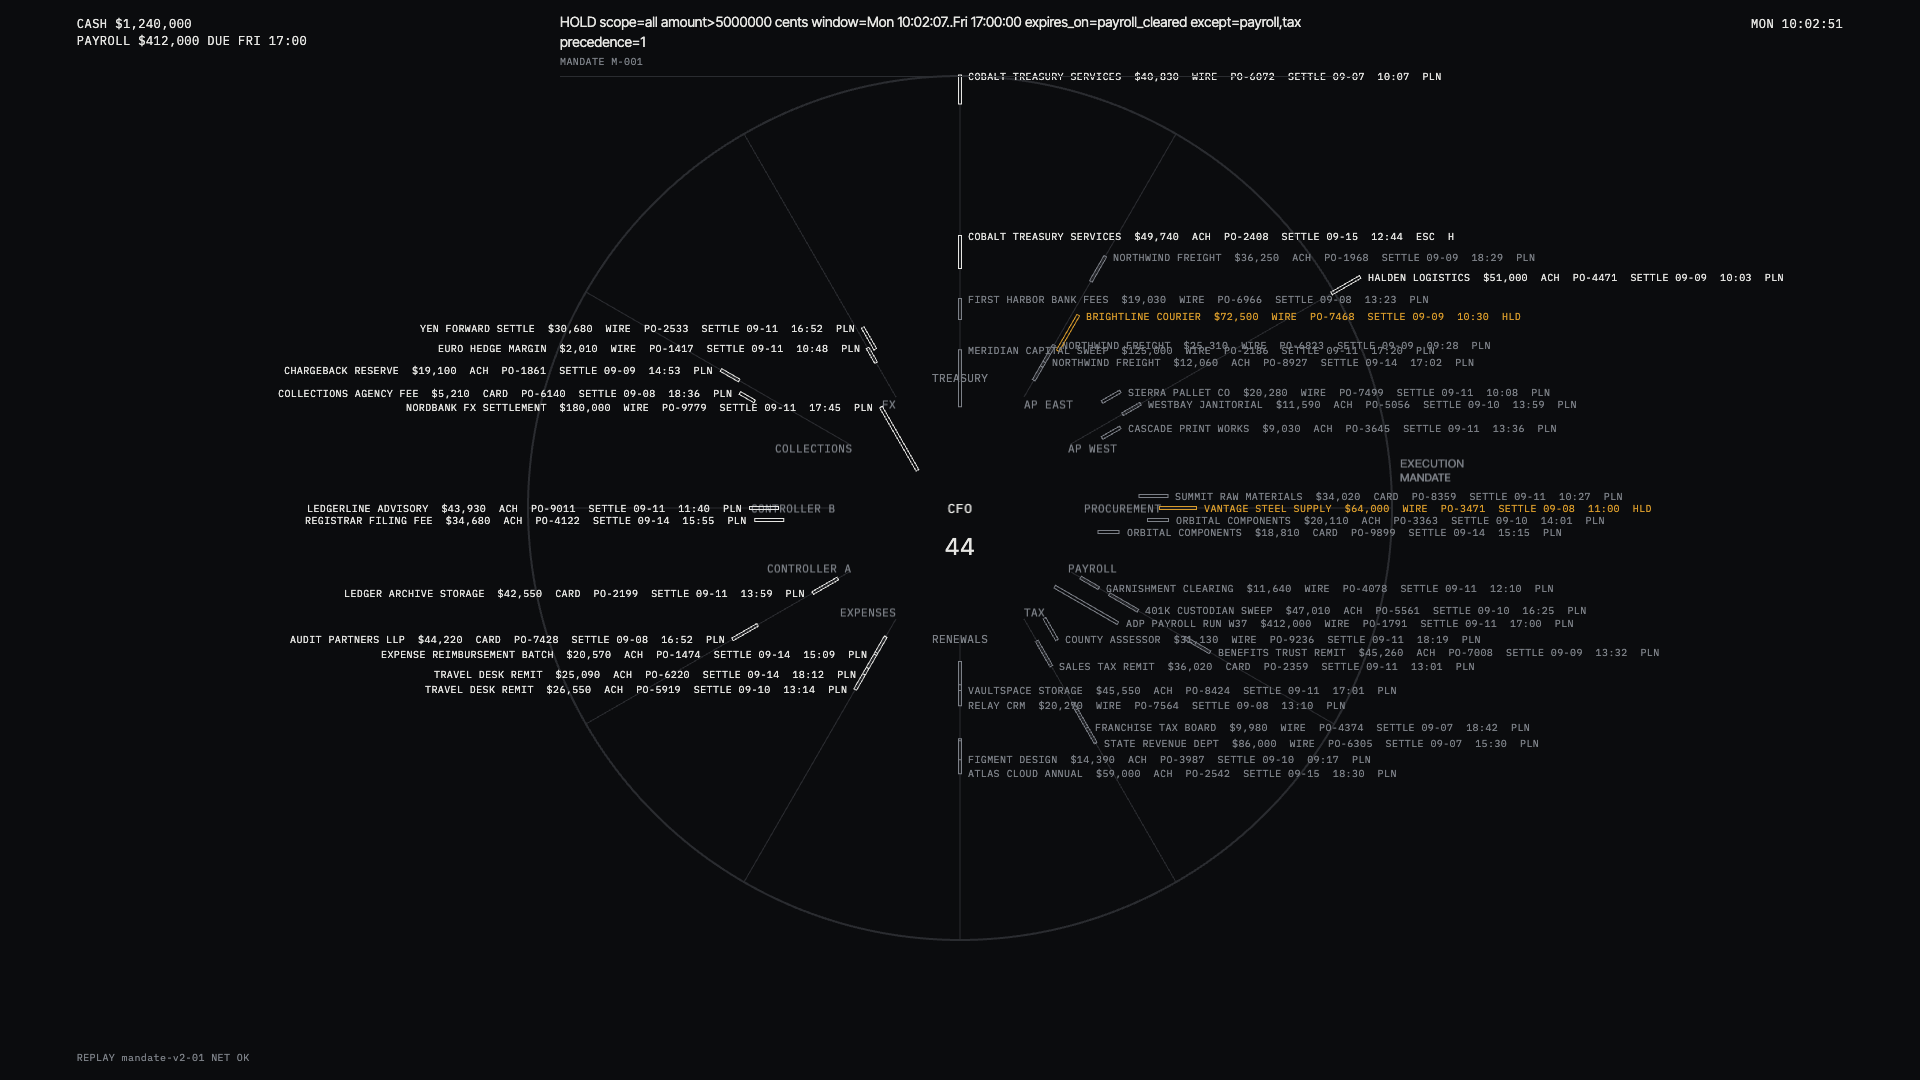
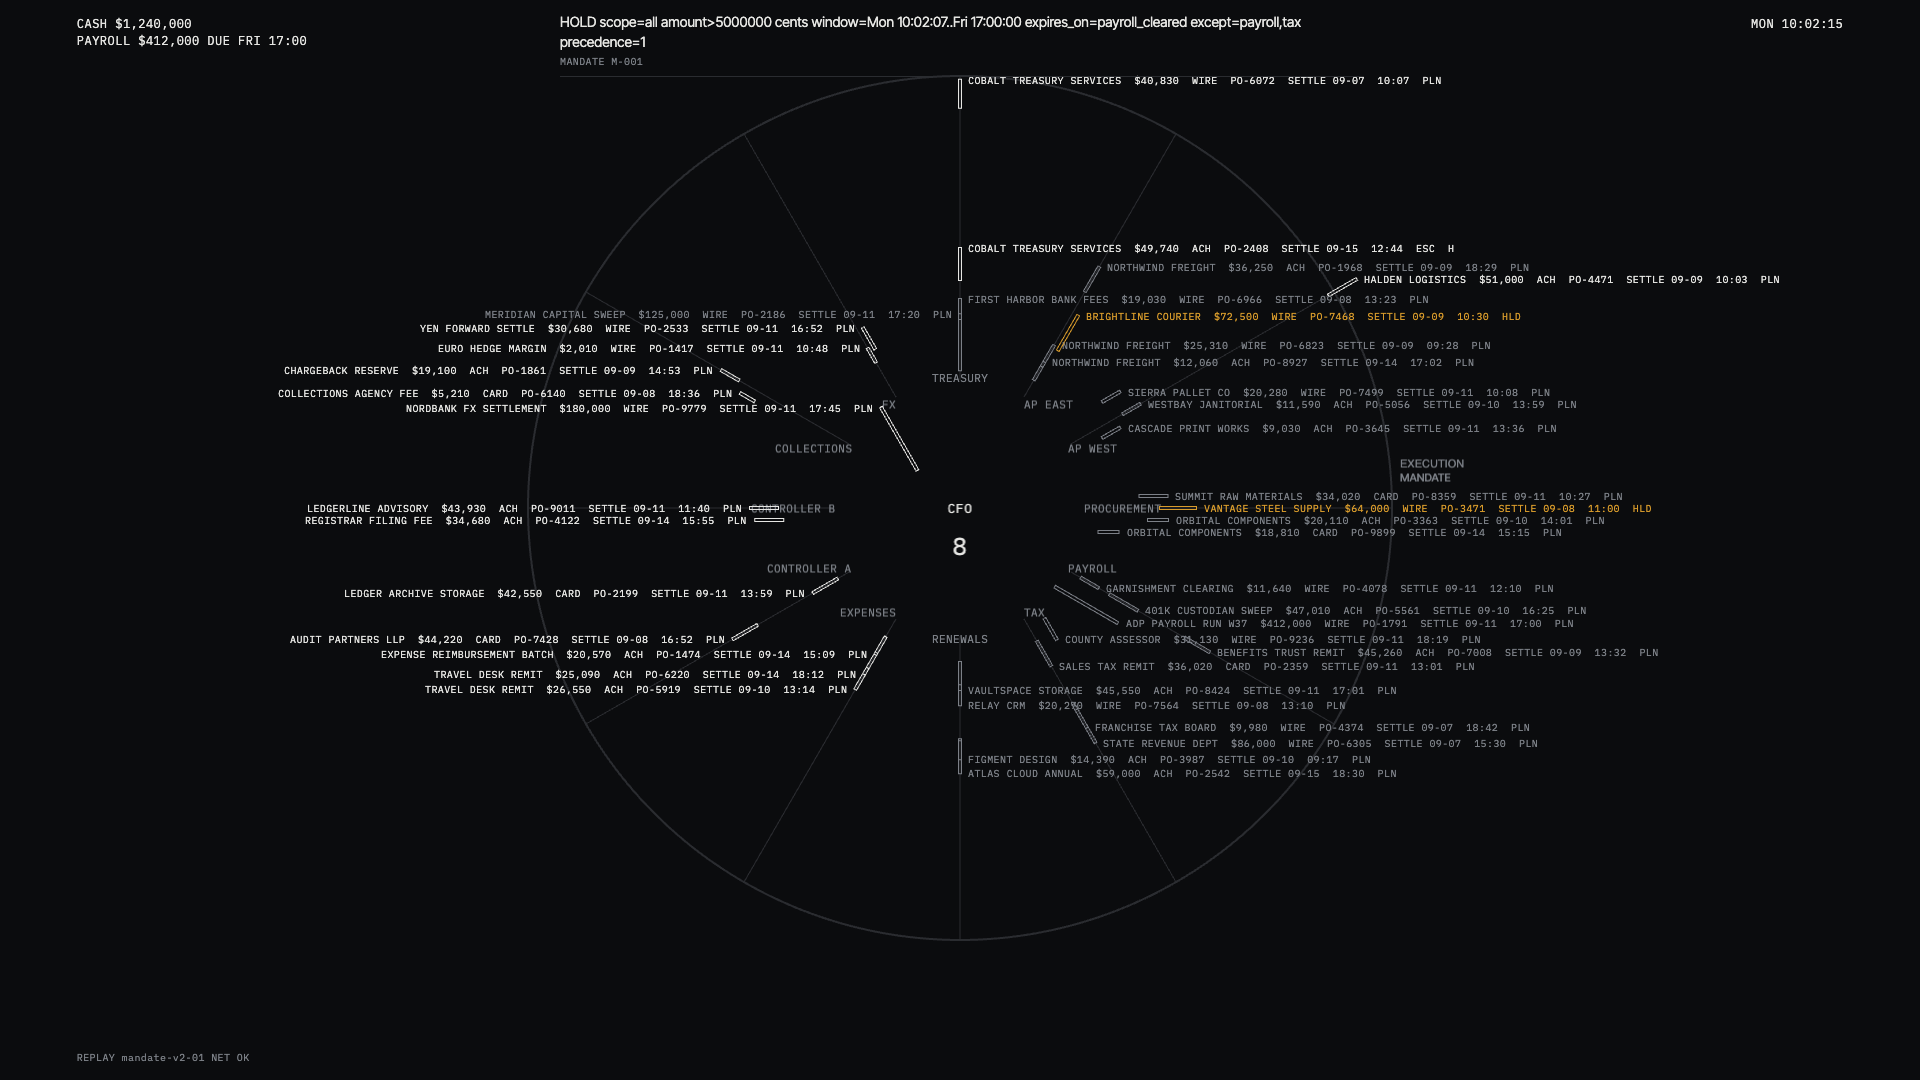
radial floor: side-flip collision fallback

diff --git a/frontend/src/floor.ts b/frontend/src/floor.ts
@@ -360,34 +360,41 @@ export class Floor {
       const a = this.bearing(p.lane);
       const c = Math.cos(a);
       const s = Math.sin(a);
-      const right = c >= -0.01;
+      let right = c >= -0.01;
       // collision: a later tag overlapping an earlier one moves 12px outward (up to three times); if the spoke is
-      // too flat for outward motion to clear it, the tag steps 12px perpendicular to the spoke instead
+      // too flat for outward motion to clear it, the tag steps 12px perpendicular to the spoke instead; as a last
+      // resort it flips to the other side of its point
       let push = 0;
       let dy = 0;
       if (p.place !== "done") {
         const w = sp.tagW;
-        for (const [pp, dd] of Floor.CANDIDATES) {
-          const rr = sp.r + pp;
-          const x = cx + c * rr;
-          const y = cy + s * rr + dd;
-          const x0 = right ? x + RADIAL.tagGap : x - RADIAL.tagGap - w;
-          const x1 = x0 + w;
-          const y0 = y - 6;
-          const y1 = y + 6;
-          let hit = false;
-          for (let k = 0; k < boxes.length; k++) {
-            const b = boxes[k];
-            if (y0 < b[3] && y1 > b[1] && x0 < b[2] && x1 > b[0]) {
-              hit = true;
+        let placed = false;
+        for (const side of [right, !right]) {
+          for (const [pp, dd] of Floor.CANDIDATES) {
+            const rr = sp.r + pp;
+            const x = cx + c * rr;
+            const y = cy + s * rr + dd;
+            const x0 = side ? x + RADIAL.tagGap : x - RADIAL.tagGap - w;
+            const x1 = x0 + w;
+            const y0 = y - 6;
+            const y1 = y + 6;
+            let hit = false;
+            for (let k = 0; k < boxes.length; k++) {
+              const b = boxes[k];
+              if (y0 < b[3] && y1 > b[1] && x0 < b[2] && x1 > b[0]) {
+                hit = true;
+                break;
+              }
+            }
+            if (!hit) {
+              push = pp;
+              dy = dd;
+              right = side;
+              placed = true;
               break;
             }
           }
-          if (!hit) {
-            push = pp;
-            dy = dd;
-            break;
-          }
+          if (placed) break;
         }
       }
       sp.push = push;
